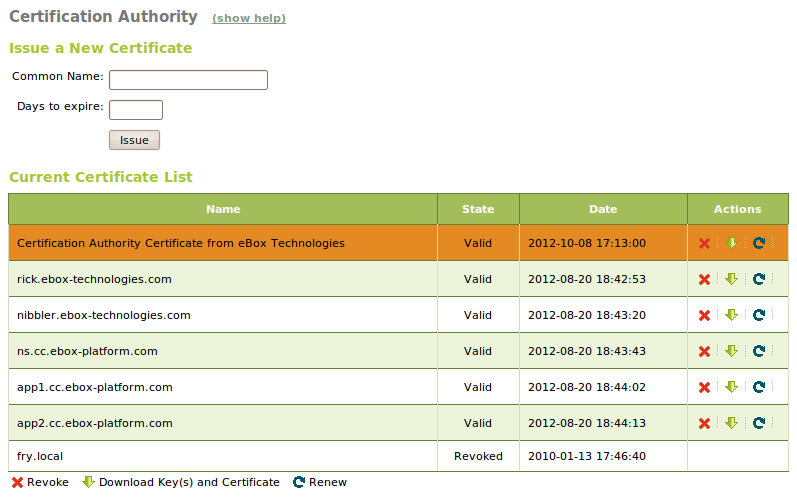
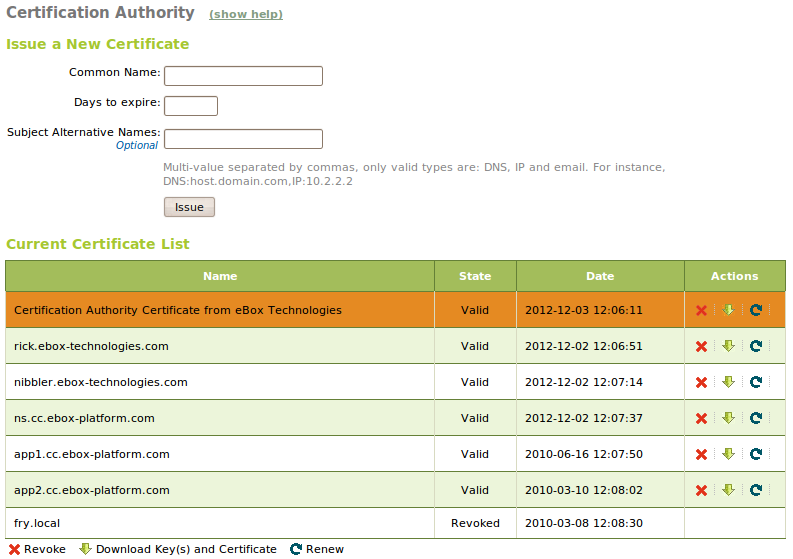
BP:
* Fix a nasty bug when issuing a certificate without alternative
   names
 * Documentation the new attribute and updating shot accordingly

git-svn-id: http://svn.zentyal.org/zentyal/trunk@16999 866bc4c1-54da-0310-a958-9d5a9a0e8d04

diff --git a/docs/en/user/vpn.rst b/docs/en/user/vpn.rst
@@ -134,13 +134,24 @@ also these optional fields to the CA certificate:
 
 Once the CA has been created, you will be able to issue certificates
 signed by the CA. To do this, use the form now available at
-:menuselection:`Certification Authority --> General`. The required data are the
-:guilabel:`Common Name` of the certificate and the :guilabel:`Days to
-expire`. This last field sets the number of days that the certificate will
-remain valid and the duration cannot surpass the duration of the CA.
-In case we are using the certificate for a service server like it could be a
-web server or mail server, the :guilabel:`Common Name` of the certificate should
-match the hostname or domain name of that server.
+:menuselection:`Certification Authority --> General`. The required
+data are the :guilabel:`Common Name` of the certificate and the
+:guilabel:`Days to expire`. This last field sets the number of days
+that the certificate will remain valid and the duration cannot surpass
+the duration of the CA.  In case we are using the certificate for a
+service server like it could be a web server or mail server, the
+:guilabel:`Common Name` of the certificate should match the hostname
+or domain name of that server. Anyway, you could set any
+:guilabel:`Alternative Subject Names` [#]_ for the certificate in
+order to, for example, set any other common name for HTTP virtual
+hosts [#]_ or an IP address or even a mail address to sign e-mail
+messages.
+
+.. [#] For more information about subject alternative names, visit
+       http://www.openssl.org/docs/apps/x509v3_config.html#Subject_Alternative_Name
+
+.. [#] For more information about HTTP virtual hosts, check out
+       :ref:`vhost-ref` section for details
 
 When the certificate is issued, it will appear in the list of certificates and
 it will be available to eBox services that use certificates and to external

diff --git a/docs/es/user/vpn.rst b/docs/es/user/vpn.rst
@@ -152,7 +152,20 @@ para Expirar`. Este último dato está limitado por el hecho de que ningún
 certificado puede ser válido durante más tiempo que la *CA*. En el caso de
 que estemos usando estos certificados para un servicio como podría ser
 un servidor web o un servidor de correo, el :guilabel:`Nombre Común` deberá
-coincidir con el nombre de dominio del servidor.
+coincidir con el nombre de dominio del servidor. De todas maneras, se
+puede poner cualquier número de :guilabel:`Nombres alternativos para
+el sujeto` [#]_ para el certificado para, por ejemplo, establecer otro
+nombre común a un dominio virtual HTTP [#]_ o una dirección IP o
+incluso una dirección de correo para firmar los mensajes de correo
+electrónico.
+
+.. [#] Para tener más información sobre los nombres alternativos para
+       un sujeto, visita 
+       http://www.openssl.org/docs/apps/x509v3_config.html#Subject_Alternative_Name
+
+.. [#] Para más información sobre los dominios virtuales en HTTP,
+       investiga en la sección :ref:`vhost-ref` para obtener más
+       detalles.
 
 Una vez el certificado haya sido creado, aparecerá en la lista de
 certificados y estará disponible para los módulos de eBox que usen
